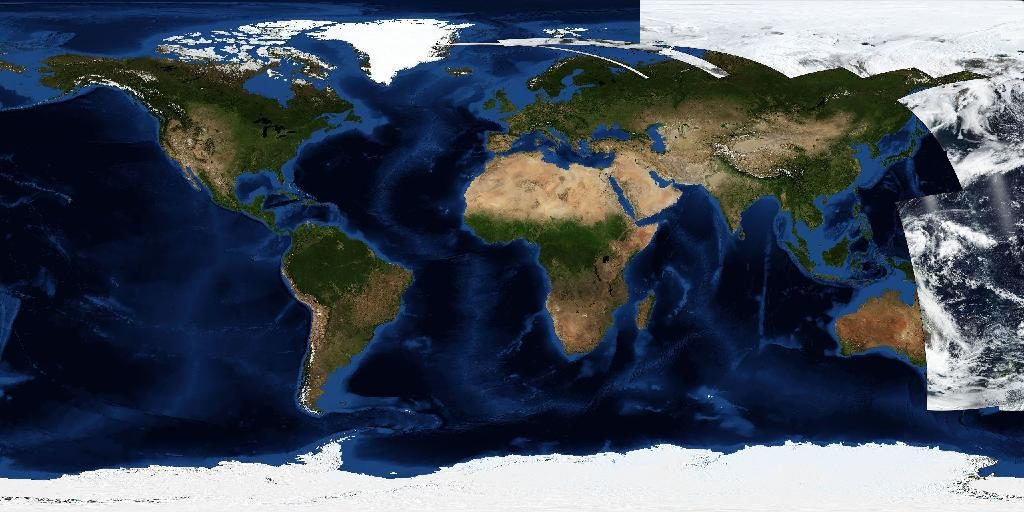
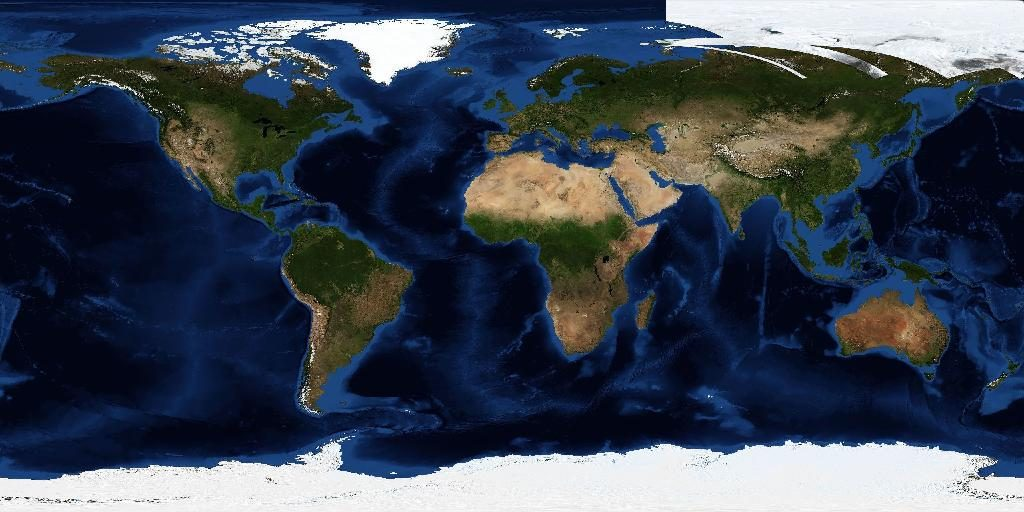
feat: load fresher satellite imagery live

Changed region(s): [[0.4375, 0.0, 1.0, 0.8125]]

diff --git a/app.js b/app.js
@@ -66,9 +66,19 @@ async function loadStarCatalog() {
 }
 
 // --- Satellite earth texture ---
-// Base layer is a lofi "live" satellite snapshot updated by CI.
 const EARTH_TEXTURE_URL = "./earth-live.jpg";
 const EARTH_TEXTURE_META_URL = "./earth-live.json";
+const EARTH_SNAPSHOT_ENDPOINT = "https://wvs.earthdata.nasa.gov/api/v1/snapshot";
+const EARTH_SNAPSHOT_LOOKBACK_DAYS = 7;
+const EARTH_SNAPSHOT_TIMEOUT_MS = 10000;
+const EARTH_LIVE_LAYER_CANDIDATES = [
+  "OCI_PACE_True_Color",
+  "VIIRS_NOAA21_CorrectedReflectance_TrueColor",
+  "VIIRS_NOAA20_CorrectedReflectance_TrueColor",
+  "VIIRS_SNPP_CorrectedReflectance_TrueColor",
+  "MODIS_Aqua_CorrectedReflectance_TrueColor",
+  "MODIS_Terra_CorrectedReflectance_TrueColor",
+];
 const NIGHT_TEXTURE_URL = "https://unpkg.com/three-globe@2.31.0/example/img/earth-night.jpg";
 const earthTexture = { img: null };
 const nightTexture = { img: null };
@@ -78,6 +88,7 @@ const debugState = {
   earthPixelsReadable: false,
   earthPixelsError: null,
   earthUrl: "",
+  earthSource: "none",
   earthRenderMode: "none",
   tempRasterLoaded: false,
   precipRasterLoaded: false,
@@ -86,54 +97,132 @@ const debugState = {
 let _earthData = null, _nightData = null;
 let _earthCache = { offscreen: null, r: 0, rotY: null, rotX: null };
 let _nightCache = { offscreen: null, r: 0, rotY: null, rotX: null };
+let _earthPriority = -1;
 
-function loadEarthTexture() {
+function setEarthTextureFromImage(img, priority, sourceLabel, sourceUrl) {
+  if (priority < _earthPriority) return;
+  _earthPriority = priority;
+  earthTexture.img = img;
+  debugState.earthImgLoaded = true;
+  debugState.earthImgError = null;
+  debugState.earthSource = sourceLabel;
+  debugState.earthUrl = sourceUrl;
+
+  const c = document.createElement("canvas");
+  c.width = img.width;
+  c.height = img.height;
+  const cx = c.getContext("2d");
+  cx.drawImage(img, 0, 0);
+  try {
+    _earthData = cx.getImageData(0, 0, img.width, img.height);
+    debugState.earthPixelsReadable = true;
+    debugState.earthPixelsError = null;
+  } catch {
+    // If the canvas becomes tainted for any reason, fall back to the shaded sphere.
+    _earthData = null;
+    debugState.earthPixelsReadable = false;
+    debugState.earthPixelsError = "getImageData failed (tainted?)";
+  }
+}
+
+function loadImageIntoEarthTexture(url, priority, sourceLabel, objectUrlToRevoke = null) {
   const img = new Image();
   img.crossOrigin = "anonymous";
   img.onload = () => {
-    earthTexture.img = img;
-    debugState.earthImgLoaded = true;
-    debugState.earthImgError = null;
-    const c = document.createElement("canvas");
-    c.width = img.width; c.height = img.height;
-    const cx = c.getContext("2d");
-    cx.drawImage(img, 0, 0);
-    try {
-      _earthData = cx.getImageData(0, 0, img.width, img.height);
-      debugState.earthPixelsReadable = true;
-      debugState.earthPixelsError = null;
-    } catch {
-      // If the canvas becomes tainted for any reason, fall back to the shaded sphere.
-      _earthData = null;
-      debugState.earthPixelsReadable = false;
-      debugState.earthPixelsError = "getImageData failed (tainted?)";
-    }
+    setEarthTextureFromImage(img, priority, sourceLabel, url);
+    if (objectUrlToRevoke) URL.revokeObjectURL(objectUrlToRevoke);
   };
   img.onerror = () => {
-    earthTexture.img = null;
-    _earthData = null;
-    debugState.earthImgLoaded = false;
-    debugState.earthImgError = "image load failed";
+    if (objectUrlToRevoke) URL.revokeObjectURL(objectUrlToRevoke);
+    if (priority >= _earthPriority) {
+      if (priority === 0) {
+        debugState.earthImgLoaded = false;
+        debugState.earthImgError = "fallback image load failed";
+      } else if (_earthPriority === 0) {
+        debugState.earthImgError = "live snapshot unavailable; using fallback";
+      } else {
+        debugState.earthImgError = "live snapshot load failed";
+      }
+    }
   };
+  img.src = url;
+  return img;
+}
 
-  // Use the meta JSON as a cache-buster so GitHub Pages updates show up
-  // without requiring a hard refresh.
+async function tryLoadLiveEarthTexture() {
+  const now = new Date();
+  for (let back = 0; back < EARTH_SNAPSHOT_LOOKBACK_DAYS; back++) {
+    const day = new Date(Date.UTC(
+      now.getUTCFullYear(),
+      now.getUTCMonth(),
+      now.getUTCDate() - back,
+    )).toISOString().slice(0, 10);
+
+    for (const layer of EARTH_LIVE_LAYER_CANDIDATES) {
+      const params = new URLSearchParams({
+        REQUEST: "GetSnapshot",
+        LAYERS: layer,
+        CRS: "EPSG:4326",
+        BBOX: "-90,-180,90,180",
+        FORMAT: "image/jpeg",
+        WIDTH: "1024",
+        HEIGHT: "512",
+        TIME: day,
+      });
+      const url = `${EARTH_SNAPSHOT_ENDPOINT}?${params.toString()}`;
+      const controller = new AbortController();
+      const timeout = window.setTimeout(() => controller.abort(), EARTH_SNAPSHOT_TIMEOUT_MS);
+
+      try {
+        const response = await fetch(url, {
+          cache: "no-store",
+          signal: controller.signal,
+        });
+        if (!response.ok) continue;
+
+        const dataPresent = response.headers.get("data-present");
+        if (dataPresent && dataPresent.toLowerCase() !== "true") continue;
+
+        const blob = await response.blob();
+        if (!blob.size) continue;
+
+        const objectUrl = URL.createObjectURL(blob);
+        loadImageIntoEarthTexture(objectUrl, 1, `live ${layer} ${day}`, objectUrl);
+        return true;
+      } catch {
+        // Try the next layer/day.
+      } finally {
+        window.clearTimeout(timeout);
+      }
+    }
+  }
+
+  return false;
+}
+
+function loadEarthTexture() {
+  // Start with the CI-built fallback so the globe renders immediately, then
+  // replace it with the freshest NASA Worldview snapshot we can fetch.
+  let fallbackVersion = String(Date.now());
   fetch(EARTH_TEXTURE_META_URL, { cache: "no-store" })
     .then((r) => r.json())
     .then((meta) => {
-      const v = typeof meta?.generatedAt === "string" && meta.generatedAt
+      fallbackVersion = typeof meta?.generatedAt === "string" && meta.generatedAt
         ? meta.generatedAt
         : typeof meta?.acquisitionTime === "string" && meta.acquisitionTime
           ? meta.acquisitionTime
-          : String(Date.now());
-      const url = `${EARTH_TEXTURE_URL}?v=${encodeURIComponent(v)}`;
-      debugState.earthUrl = url;
-      img.src = url;
+          : fallbackVersion;
     })
     .catch(() => {
-      debugState.earthUrl = EARTH_TEXTURE_URL;
-      img.src = EARTH_TEXTURE_URL;
+      // Keep the timestamp fallback.
+    })
+    .finally(() => {
+      const fallbackUrl = `${EARTH_TEXTURE_URL}?v=${encodeURIComponent(fallbackVersion)}`;
+      loadImageIntoEarthTexture(fallbackUrl, 0, "fallback asset");
     });
+
+    // Fire and forget the live path. If it succeeds, it takes over.
+  tryLoadLiveEarthTexture().catch(() => {});
 }
 
 function loadNightTexture() {
@@ -222,6 +311,7 @@ function drawDebugHud(ctx, canvas) {
   const lines = [
     tag,
     debugState.earthUrl ? `earth: ${debugState.earthUrl}` : "earth: (no url)",
+    `earth source: ${debugState.earthSource}`,
     `earth img loaded: ${debugState.earthImgLoaded ? "yes" : "no"}${debugState.earthImgError ? ` (${debugState.earthImgError})` : ""}`,
     `earth pixels readable: ${debugState.earthPixelsReadable ? "yes" : "no"}${debugState.earthPixelsError ? ` (${debugState.earthPixelsError})` : ""}`,
     `earth render: ${debugState.earthRenderMode}`,

diff --git a/scripts/update_earth_live_texture.py b/scripts/update_earth_live_texture.py
@@ -14,20 +14,31 @@ ROOT = Path(__file__).resolve().parents[1]
 OUT_IMG = ROOT / "earth-live.jpg"
 OUT_META = ROOT / "earth-live.json"
 
-# NASA Worldview Snapshots API (global, daily-ish imagery)
+# NASA Worldview Snapshots API (global, near-real-time imagery)
 SNAPSHOT_ENDPOINT = "https://wvs.earthdata.nasa.gov/api/v1/snapshot"
 BASE_LAYER = "BlueMarble_ShadedRelief_Bathymetry"
-LIVE_LAYER = "VIIRS_SNPP_CorrectedReflectance_TrueColor"
+
+# Try the newest available true-color platforms first.
+# Worldview can lag behind by a few hours, so we prefer the freshest sensor
+# and fall back to older layers if the current day is not ready yet.
+LAYER_CANDIDATES = [
+    "OCI_PACE_True_Color",
+    "VIIRS_NOAA21_CorrectedReflectance_TrueColor",
+    "VIIRS_NOAA20_CorrectedReflectance_TrueColor",
+    "VIIRS_SNPP_CorrectedReflectance_TrueColor",
+    "MODIS_Aqua_CorrectedReflectance_TrueColor",
+    "MODIS_Terra_CorrectedReflectance_TrueColor",
+]
 
 # Keep it lofi (small + fast to download + good enough for the globe).
 WIDTH = 1024
 HEIGHT = 512
 
 
-def try_fetch_for_date(day: str) -> tuple[bytes | None, dict[str, str]]:
+def try_fetch_for_date(day: str, layer: str) -> tuple[bytes | None, dict[str, str]]:
     params = {
         "REQUEST": "GetSnapshot",
-        "LAYERS": LIVE_LAYER,
+        "LAYERS": layer,
         "CRS": "EPSG:4326",
         # EPSG:4326 uses latitude,longitude axis order.
         "BBOX": "-90,-180,90,180",
@@ -56,20 +67,26 @@ def main() -> int:
     headers_last = {}
     image = None
     chosen_day = None
+    chosen_layer = None
 
-    # Worldview can lag behind by a day; search back a bit.
+    # Worldview can lag behind by a few hours; search back a bit and probe
+    # the freshest platform first.
     for back in range(0, 7):
         day = (now - timedelta(days=back)).date().isoformat()
-        try:
-            image, headers_last = try_fetch_for_date(day)
-        except Exception:
-            image = None
-            headers_last = {}
+        for layer in LAYER_CANDIDATES:
+            try:
+                image, headers_last = try_fetch_for_date(day, layer)
+            except Exception:
+                image = None
+                headers_last = {}
+            if image:
+                chosen_day = day
+                chosen_layer = layer
+                break
         if image:
-            chosen_day = day
             break
 
-    if not image or not chosen_day:
+    if not image or not chosen_day or not chosen_layer:
         raise SystemExit("Could not fetch a recent Worldview snapshot")
 
     # Always fetch a full-coverage base and composite the live swath on top.
@@ -113,7 +130,7 @@ def main() -> int:
             {
                 "source": "NASA Worldview Snapshots",
                 "baseLayer": BASE_LAYER,
-                "liveLayer": LIVE_LAYER,
+                "liveLayer": chosen_layer,
                 "requestedTime": chosen_day,
                 "acquisitionTime": headers_last.get("acquisition-time", chosen_day),
                 "dataPresent": True,

diff --git a/README.md b/README.md
@@ -1,11 +1,11 @@
 # World
 
-A browser-based celestial globe with live weather, real satellite imagery, HYG star catalog, and country headlines.
+A browser-based celestial globe with live weather, near-real-time satellite imagery, HYG star catalog, and country headlines.
 
 ## What this is
 
 - Celestial visualization with HYG star catalog and Keplerian planetary orbits
-- NASA Blue Marble satellite texture on the globe
+- NASA Worldview near-real-time satellite texture on the globe, fetched live in the browser with a CI fallback
 - Live weather overlay (NOAA GFS, grid + raster overlays committed by CI)
 - Country-by-country headlines with population data
 